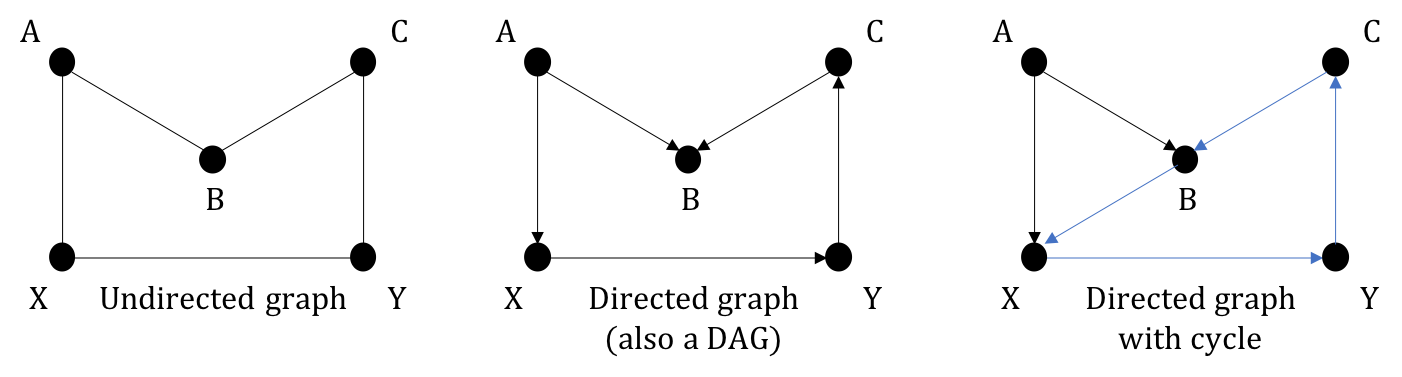
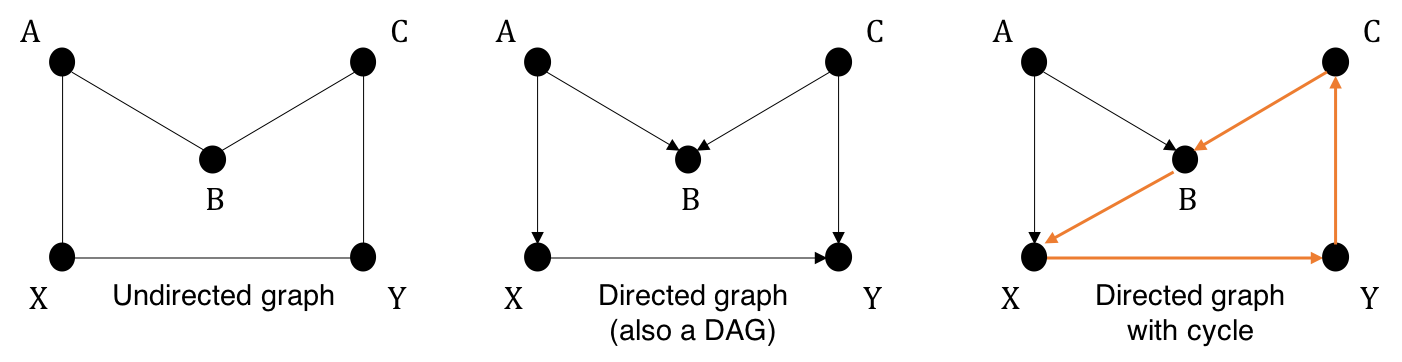
Initial Commit

diff --git a/causal-data-science/chapter2.html b/causal-data-science/chapter2.html
@@ -268,9 +268,13 @@
             </ol>
           </p>
         </div>
-        <p>ADD FIGURE 2.3 OF 2.1 FOR SCM</p>
+        <br>
+        <figure style="text-align: center;">
+          <img src='figures/1-2-Fig3.png' alt='graphs' width="400" />
+          <figcaption style="font-size: small;">Figure 2.3</figcaption>
+        </figure>
         <p>
-          <strong>Exogenous</strong> variables without any parents in the causal graph and <strong>endogenous</strong> are those with ones and those we model. 
+          <strong>Exogenous</strong> variables are ones without any parents in the causal graph, external to the system. <strong>Endogenous</strong> variables have parents and are those we model. 
           The SCM for the causal graph in Figure 2.3 is written as 
           $$X:=f_X(A,B,U_X)$$
           $$B:=f_B(A,C,U_B)$$
@@ -279,13 +283,90 @@
         </p>
         <h4>2.4.2. Intervention in SCM</h4>
         <p>
+          If regarded as a causal model, then SCM must also be used to model interventional distribution. 
+          Intervention \(do(X)=x\) is equivalent to setting the structual equation of \(X\) to \(x\).
+          Let's review the manipulated graphs in Figure 1.4
+        </p>
+        <figure style="text-align: center;">
+          <img src='figures/1-1-Fig4.png' alt='graphs' width="1000" />
+          <figcaption style="font-size: small;">Figure 1.4</figcaption>
+        </figure>
+        <p>
+          The <strong>interventional SCM</strong> upon intervention on \(X\), with respect to the third graph is 
+          $$X:=x$$
+          $$B:=f_B(A,C,U_B)$$
+          $$Y:=f_Y(X,C,U_Y)$$
+        </p>
+        <p>
+          This strongly aligns with our definition of interventional distribution in <a>Chapter 1</a>. 
+          Fixing \(X\) to a constant distribution completely eliminates the dependence between \(X\) and its parents, which is equivalent to deleting any arrows pointing into \(X\) in the graph.
+          In addition, setting \(X\) to a constant \(x\) is called <i>hard</i> intervention. Under SCM, you can see that we can be more flexible by assigning \(X\) to a new distribution i.e., new causal mechanism to \(X\).
+          Such action is referred to as <i>soft</i> intervention. 
+        </p>
+        <h3 id="2.5">2.5. Instrumental Variables</h3>
+        <p>
+          The method of Instrumental variables allows for identification in settings where \(Do-\)calculus fails, due to unobserved confounding or absence of mediator. 
+          It demands the presence of an instrumental variable.
+        </p>
+        <div class="theorem">
+          <h5>Definition of Instrumental variable</h5>
+          \(Z\) is considered an instrument if satisfying the following assumptions
+          <ol>
+            <li>\(Z\) has a causal effect on \(X\).</li>
+            <li>\(X\) is a mediator on the causal path from \(Z\) to \(Y\).</li>
+            <li>There are no backdoor paths from \(Z\) to \(Y\).</li>
+          </ol>
 
+        </div>  
+        <p>
+          Figure 2.4 illustrates a causal graph where \(Z\) is an <span style="text-decoration: underline;">observed</span> instrumental variable 
+          while the confounder \(U\) is <span style="text-decoration: underline;">not observed.</span> 
+        </p>  
+        <figure style="text-align: center;">
+          <img src='figures/1-2-Fig4.png' alt='graphs' width="300" />
+          <figcaption style="font-size: small;">Figure 2.4</figcaption>
+        </figure>
+        <p>
+          We assume the SCM takes a linear form defined as 
+          $$Y := \delta X + \alpha_uU$$
+          where \(\delta\) measures how much \(Y\) varies caused by \(1\) unit change in \(X\). 
+          Based on the specified model, \(\delta\) measures the causal effect between \(X\) and \(Y\) – the causal quantity to be estimated.
+        </p>
+        <p>
+          <strong>A quick review of expected value:</strong>
+          <br>The expected value of a random variable \(X\), denoted as \(E[X]\), is the generalization of weighted average given as 
+          $$E[X] = \int xP(x) dx$$ 
+          If \(X\) is a discreet variable with finite outcomes \(x_1, x_2, ..., x_n\) occuring with probabilities \(P_1, P_2, ..., P_n\), 
+          $$E[X] = \sum_{i=1}^{n} x_i P_i$$
+          Linearity of Expectation: 
+          $$E[X+Y] = E[X]+E[Y]$$
+          If \(X\) and \(Y\) are <strong>independent,</strong>
+          $$E[XY] = E[X]E[Y]$$
+        </p>
+        <p>
+          We can derive \(\delta\) following the steps below. This derivation is applied for general scenrios where \(T,Z\) are continuous.
+          We begin with the (observational) covariance between \(Y\) and \(Z\) – \(\text{Cov}(Y,Z)\). Its formula is given in the first line.
+          $$\text{Cov}(Y,Z) = E[YZ] - E[Y]E[Z]$$
+          &#8811 <i>Injecting structural equation for \(Y\):</i>
+          $$\text{Cov}(Y,Z) = E[(\delta X + \alpha_uU)Z] - E[Y]E[Z]$$
+          &#8811 <i>Rearranging using properties of expectation:</i>
+          $$\text{Cov}(Y,Z) = \delta (E[XZ]-E[X]E[Z]) + \alpha_u (E[UZ]-E[U]E[Z]) = \delta \text{Cov}(X,Z) + \alpha_u \text{Cov}(U,Z) $$
+        </p>
+        <p>
+          \(\text{Cov}(U,Z) = 0\) because there is no back-door path between \(Z\) and \(U\) and the graph says \(Z \perp U\) due to the collider \(X\), 
+          We thus settle with the causal effect identified as 
+          $$\delta = \frac{\text{Cov}(Y,Z)}{\text{Cov}(X,Z)}$$
+        </p>
+        <p>
+          Instrumental variables are not restricted to linear equations. We can apply the same idea on any functional forms compatible with the causal mechanism.
+          The first important step is to detect an instrumental candidate and use non-parametric methods to block the back-door paths from that variable to outcome variable \(Y\).
+          Once all the conditions met, we can develop a series of manipulations to convert <strong>causal coefficients \(\delta\)</strong> to combinations of measurable quantities.
+          With the properly constructed causal graph and SCM, estimation is no longer challenging due to the capacity of neural networks to well enough approximate any relationships in the data. 
         </p>
 
 
-
-        <h3 id="2.4">2.5. Instrumental Variables (Coming Soon)</h3>
-        <h3 id="2.5">2.6. Mediation Analysis (Coming Soon)</h3>
+        <h3 id="2.6">2.6. Mediation Analysis</h3>
+        <p>(Coming Soon)</p>
         
     
     </article>

diff --git a/causal-data-science/index.html b/causal-data-science/index.html
@@ -98,12 +98,12 @@
             At the same time, it presents more complicated scenarios where causal methods are difficult to apply. 
           </li>
         </ul>
-        <span style="font-style: italic; font-size: smaller;">* Parts not highlighted are locked for review. </span>
+        <span style="font-style: italic; font-size: smaller;">* Parts not highlighted are currently locked for review. </span>
       </p>
       <h2>Prerequisite</h2>
       <p>
-        Basic knowledge of Statistics, Probability and Python is required. It also requires a bit of patience on your first touch with Causal Inference.
-        If you struggle to understand, please remember that it is very natural when acquiring a new knowledge. 
+        Basic knowledge of Statistics, Probability and Python is highly recommended. It also requires a bit of patience on your first touch with Causal Inference.
+        If you struggle to understand, please remember that this is very natural when acquiring new knowledge. 
         I am happy to provide private tutoring if you need a refresher on any of these topics.
         Feel free to drop me an email at <strong>causalguide[at]gmail.com.</strong>    
       </p>
@@ -115,7 +115,7 @@
       <ol>
         <li><a href="https://www.bradyneal.com/Introduction_to_Causal_Inference-Dec17_2020-Neal.pdf">Introduction to Causal Inference </a>(Neal 2020)</li>
         <li><a href="http://bayes.cs.ucla.edu/WHY/">The Book of Why </a>(Pearl & Mackenzie 2018) </li>
-        <li><a href="https://library.oapen.org/bitstream/id/056a11be-ce3a-44b9-8987-a6c68fce8d9b/11283.pdf">Elements of Causal Inference</a> (Peteres, Janzing, SCholkopf 2017)</li>
+        <li><a href="https://library.oapen.org/bitstream/id/056a11be-ce3a-44b9-8987-a6c68fce8d9b/11283.pdf">Elements of Causal Inference</a> (Peteres, Janzing, Scholkopf 2017)</li>
         <li><a href="http://bayes.cs.ucla.edu/PRIMER/">Causal Inference in Statistics: A Primer</a> (Pearl, Glymour, Jewell 2016)</li>
         <li><a href="http://bayes.cs.ucla.edu/BOOK-2K/">Causality: Models, Reasoning and Inference</a> (Pearl 2009)</li>
 

diff --git a/causal-data-science/chapter1.html b/causal-data-science/chapter1.html
@@ -221,7 +221,7 @@
         </p>
         <p>
           The idea is that if \(X,Y\) are marginally independent, conditioning \(X,Y\) on the collider opens the association flow between \(X\) and \(Y\). 
-          If you are familiar with Bayes rule, you should realize that due to <strong>Markov Compatibility</strong>, you <span style="color:red">cannot</span> factorize \(P(X,Z)=P(X|Z)P(Z)\) since \(Z\) is the child of \(X\) and the graph is acyclic. 
+          If you are familiar with Bayes rule, you should realize that due to <strong>Markov Compatibility</strong>, you <span style="color:darkred">cannot</span> factorize \(P(X,Z)=P(X|Z)P(Z)\) since \(Z\) is the child of \(X\) and the graph is acyclic. 
           An easier way to verify this is by proving \(P(X|Y,Z) \ne P(X|Z)\), specifically \(P(X=x|Y=y,Z=z) \ne P(X=x|Z=z)\).
         </p>
         <p>
@@ -314,7 +314,7 @@
         </p>
         <p>     
         The answer is, given \(P, G\) along with all constraints above satisfied, <strong>under certain conditions</strong>,
-         we <span style="color: blue">can</span> transform causal estimands into statistical estimands that can be computed directly from observational data without doing experiments 
+         we <span style="color: darkblue">can</span> transform causal estimands into statistical estimands that can be computed directly from observational data without doing experiments 
          (the term <i>non-experimental data</i> is often used interchangeably). 
         </p>
         <p>

diff --git a/blog.html b/blog.html
@@ -53,7 +53,7 @@
               <div class="topic causality intuit-ai fuzzy-ai">
                 <div class="content">
                   <span class="caption" >November 2021 </span><br>
-                  <a href="causal-data-science/" target="_blank" style="color:darkred">Causal Data Science: A Beginner Guide</a>
+                  <a href="causal-data-science/" target="_blank" style="color:black; font-weight: bolder;">Causal Data Science: A Beginner Guide</a>
                   <br><span class="caption">A Quick Tutorial to Causal Inference in Practice</span>
                 </div>
               </div>
